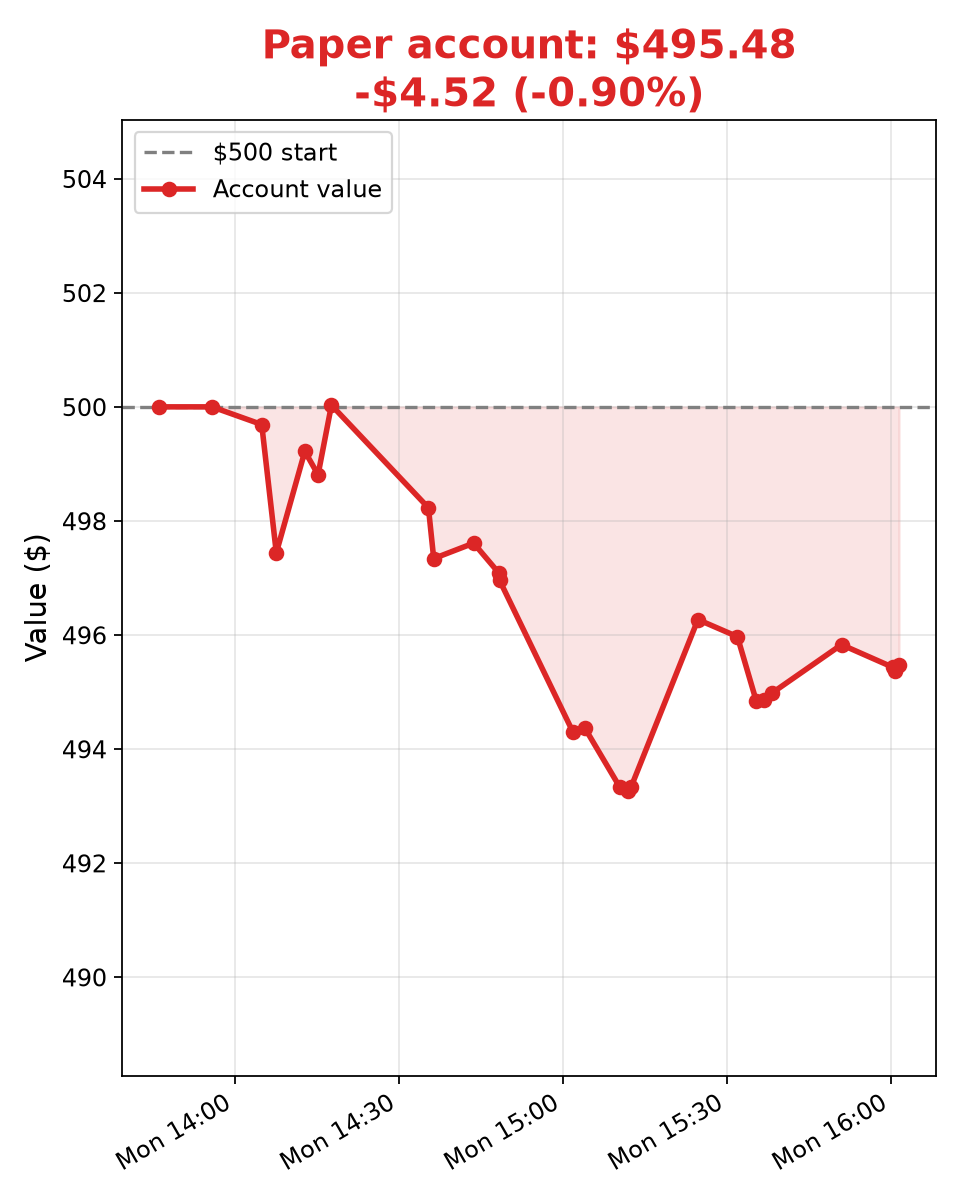
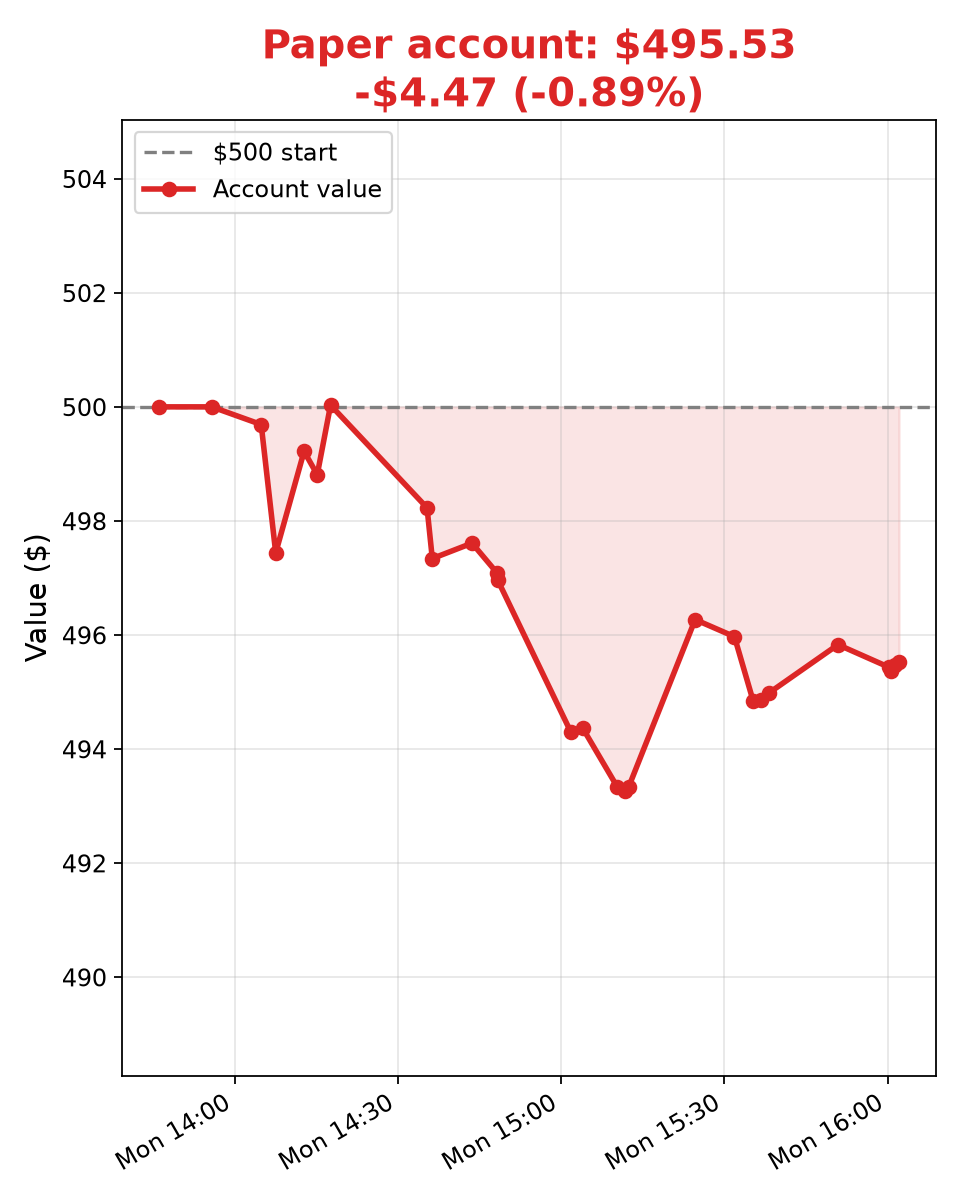
Update 2026-10-12T16:02:17Z

diff --git a/ledger.md b/ledger.md
@@ -48,3 +48,5 @@
 - 2026-10-12T16:00:22Z — total $495.43, cash $98.62 (Jr mark, no trade; FRO 58.88, DHT 25.96, ASTS 53.48 marked; no stops/targets hit)
 - 2026-10-12T16:00:40Z — total $495.37, cash $98.62 (Bot4 mark, no trade; FRO 58.87, DHT 25.945, ASTS 53.505 marked; no stops/targets hit)
 - 2026-10-12T16:01:25Z — total $495.48, cash $98.62 (Bot1 mark, no trade; FRO 58.87, DHT 25.95, ASTS 53.55 marked; no stops/targets hit)
+
+- 2026-10-12T16:02:07Z — total $495.53, cash $98.62 (Bot2 mark, no trade; FRO 58.85, DHT 25.97, ASTS 53.55 marked; no stops/targets hit)
